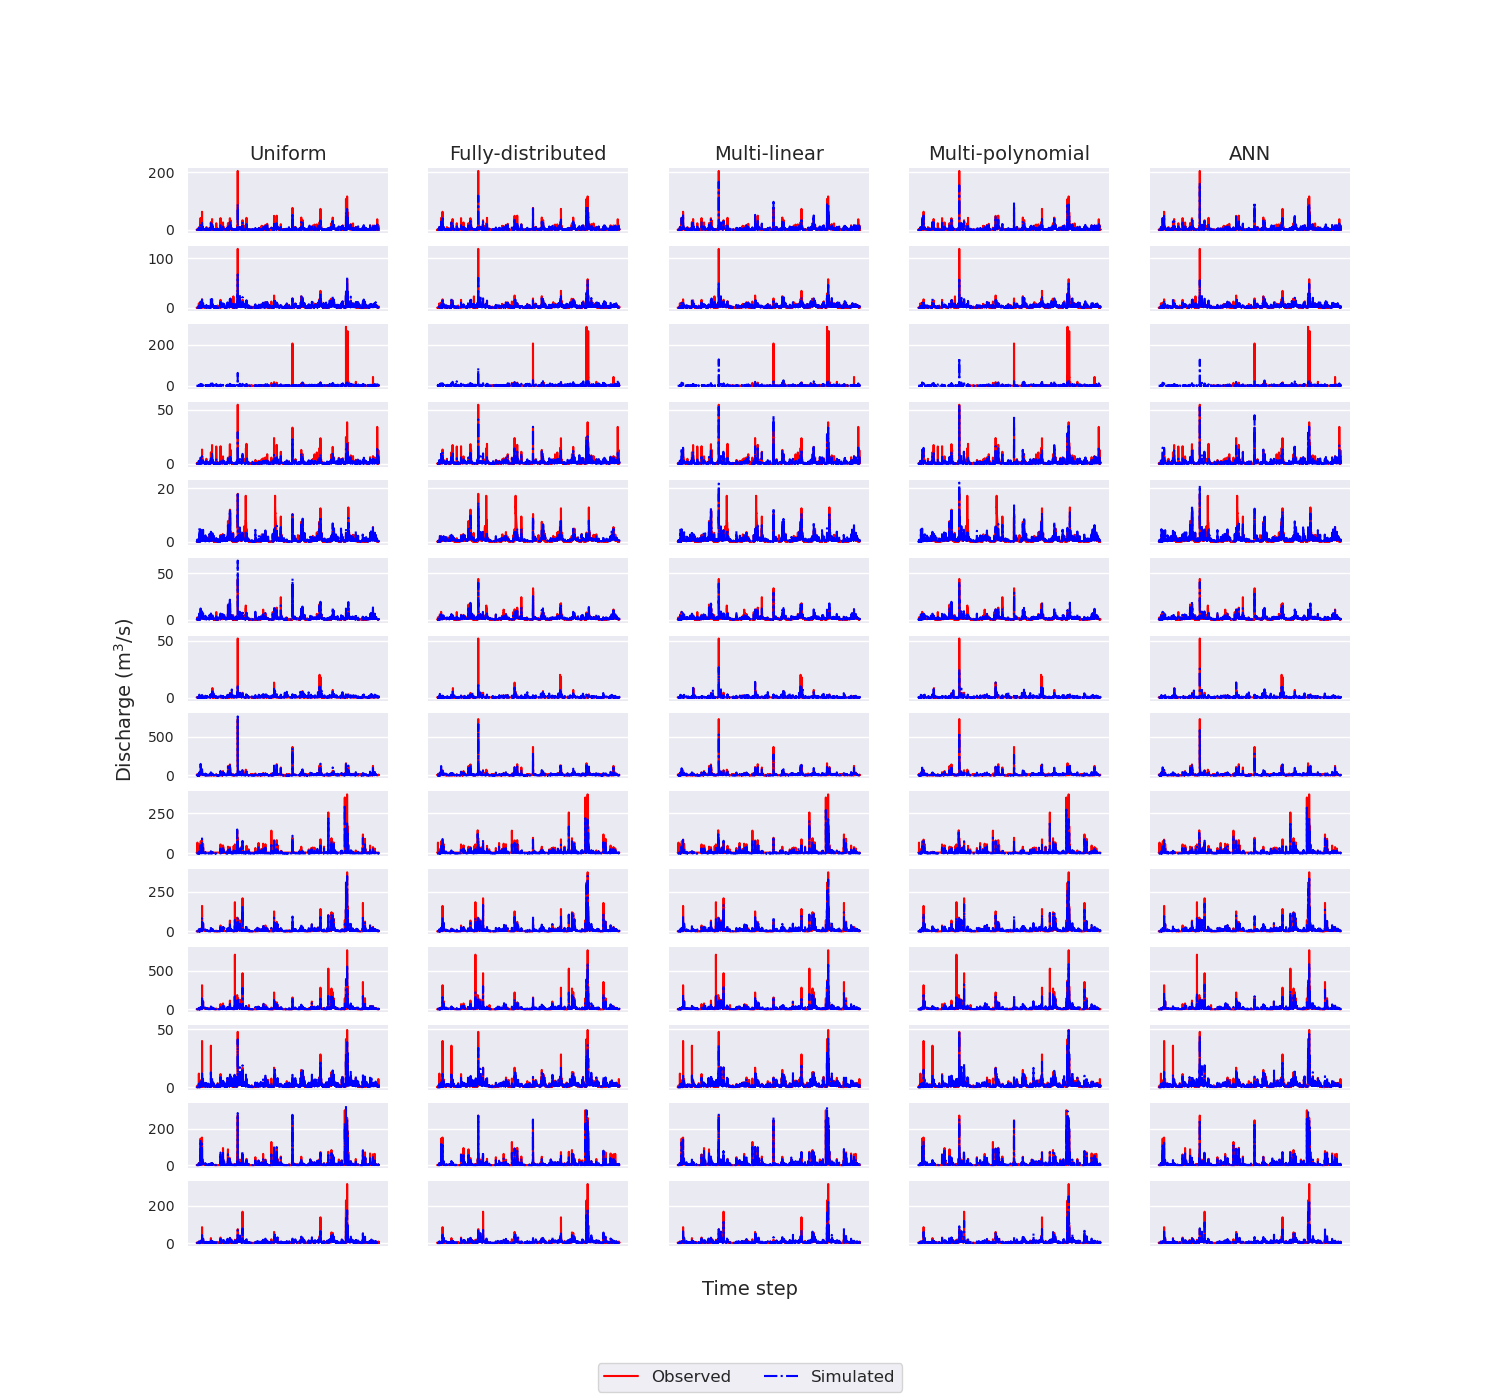
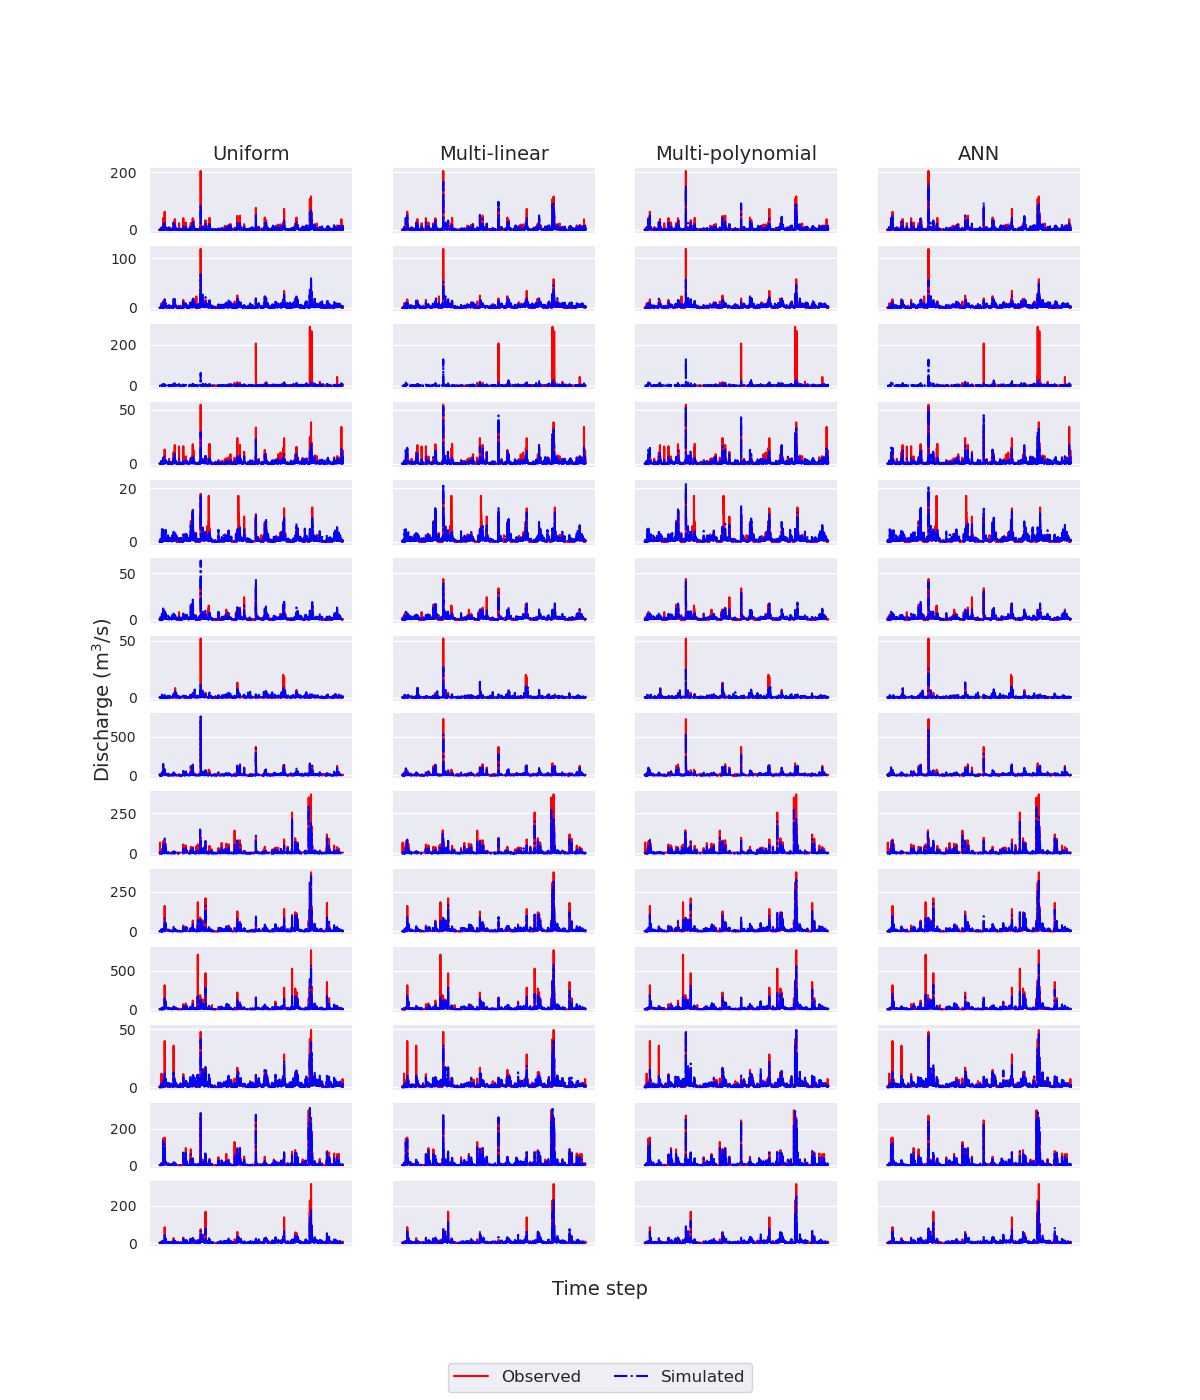
ENC: add signatures analysis using histogram

diff --git a/run_result-analysis.py b/run_result-analysis.py
@@ -7,6 +7,7 @@ import numpy as np
 import pandas as pd
 import h5py
 from sklearn.linear_model import LinearRegression
+from scipy.stats import gaussian_kde
 
 import matplotlib.pyplot as plt
 
@@ -66,14 +67,12 @@ def initialize_args():  # do not set new attr or modify any attr of args outside
 
     args.methods = [
         "Uniform",
-        "Fully-distributed",
         "Multi-linear",
         "Multi-polynomial",
         "ANN",
     ]
     args.filename_method = [
         "uniform",
-        "distributed",
         "hyper-linear",
         "hyper-polynomial",
         "ann",
@@ -84,7 +83,7 @@ def initialize_args():  # do not set new attr or modify any attr of args outside
         for method in tqdm(args.filename_method, desc="</> Reading models ddt...")
     ]
 
-    args.cost = {"nse": nse, "kge": kge}
+    args.cost = {"NSE": nse, "KGE": kge}
 
     return args
 
@@ -94,7 +93,7 @@ def initialize_args():  # do not set new attr or modify any attr of args outside
 ##############################
 
 
-def compare_cost(args, fobj="nse", figname="compare_cost", figsize=(15, 8)):
+def compare_cost(args, fobj="NSE", figname="compare_cost", figsize=(15, 9)):
     print("</> Plotting boxplots...")
 
     cost = []
@@ -112,7 +111,7 @@ def compare_cost(args, fobj="nse", figname="compare_cost", figsize=(15, 8)):
                 cal_val.append("Cal")
 
             elif code in args.val_code:
-                cal_val.append("Val")
+                cal_val.append("Spatio Val")
 
             else:
                 continue
@@ -124,7 +123,7 @@ def compare_cost(args, fobj="nse", figname="compare_cost", figsize=(15, 8)):
             code_catch.append(code)
 
     df = pd.DataFrame(
-        {"code": code_catch, "cal_val": cal_val, "Mapping": metd, "NSE": cost}
+        {"code": code_catch, "cal_val": cal_val, "Mapping": metd, fobj: cost}
     )
 
     # Create the plot
@@ -134,17 +133,17 @@ def compare_cost(args, fobj="nse", figname="compare_cost", figsize=(15, 8)):
     sns.boxplot(
         data=df,
         x="cal_val",
-        y="NSE",
+        y=fobj,
         hue="Mapping",
         width=0.5,
         palette="deep",
         showfliers=True,
         ax=axes[0],
-        order=["Cal", "Val"],
+        order=["Cal", "Spatio Val"],
     )
 
     # Set title and axis labels
-    axes[0].set(title=None, xlabel=None, ylabel="NSE")
+    axes[0].set(title=None, xlabel=None, ylabel=fobj)
 
     # Set y-axis limits
     axes[0].set_ylim([-0.25, 1])
@@ -152,13 +151,11 @@ def compare_cost(args, fobj="nse", figname="compare_cost", figsize=(15, 8)):
     handles, labels = axes[0].get_legend_handles_labels()  # get labels then remove
     axes[0].legend([], [], frameon=False)
 
-    # NSE by catchment
     colors = [
         "#4c72b0",
         "#dd8452",
         "#55a868",
         "#c44e52",
-        "#8172b3",
     ]  # corresponding colors for palette='deep
 
     cls = dict(zip(args.methods, colors))
@@ -175,14 +172,14 @@ def compare_cost(args, fobj="nse", figname="compare_cost", figsize=(15, 8)):
             )
 
     for i, catch in enumerate(code_catch):  # to separate cal and val code
-        if cal_val[i] == "Val":
+        if cal_val[i] == "Spatio Val":
             axes[1].scatter(
                 catch,
                 cost[i],
                 color=cls[metd[i]],
                 marker="^",
                 s=100,
-                label="Val" if i == 0 else None,
+                label="Spatio Val" if i == 0 else None,
             )
 
     legend_elements = [
@@ -197,13 +194,12 @@ def compare_cost(args, fobj="nse", figname="compare_cost", figsize=(15, 8)):
             markeredgewidth=1,
             markersize=8,
         )
-        for m, l in zip(["s", "^"], ["Cal", "Val"])
+        for m, l in zip(["s", "^"], ["Cal", "Spatio Val"])
     ]
     axes[1].legend(handles=legend_elements, loc="lower left", ncols=2, fontsize=14)
 
-    axes[1].set_xlabel("Catchment", fontsize=13)
-
-    axes[1].set_xticklabels([])
+    axes[1].xaxis.set_major_locator(plt.FixedLocator(axes[1].get_xticks()))
+    axes[1].set_xticklabels(axes[1].get_xticklabels(), rotation=75, fontsize=10)
 
     axes[1].set_ylim(axes[0].get_ylim())
 
@@ -211,7 +207,7 @@ def compare_cost(args, fobj="nse", figname="compare_cost", figsize=(15, 8)):
         handles,
         labels,
         title=None,
-        loc="lower center",
+        loc="upper center",
         ncol=len(args.methods),
         fontsize=14,
     )
@@ -314,7 +310,7 @@ def param_map(
     for j, par in enumerate(params):
         axes[0, j].set_title(params[j])
 
-        for i, mod in enumerate(args.models_ddt[2:]):
+        for i, mod in enumerate(args.models_ddt[1:]):
             axes[i, j].yaxis.grid(False)
             axes[i, j].xaxis.grid(False)
 
@@ -331,7 +327,7 @@ def param_map(
             )
 
             if j == 0:
-                axes[i, j].set_ylabel(args.methods[i + 2], labelpad=10)
+                axes[i, j].set_ylabel(args.methods[i + 1], labelpad=10)
 
         divider = make_axes_locatable(axes[-1, j])
         cax = divider.new_vertical(size="5%", pad=0.2, pack_start=True)
@@ -352,9 +348,8 @@ def cost_descent(args, niter=250, figsize=(12, 6), figname="cost_descent"):
         "#dd8452",
         "#55a868",
         "#c44e52",
-        "#8172b3",
     ]  # corresponding colors for palette='deep'
-    linestyles = ["--", ":", "-.", "-"]
+    linestyles = ["-", ":", "-."]
     line_kwargs = {"linewidth": 2}
 
     fig, ax = plt.subplots(figsize=figsize)
@@ -471,7 +466,7 @@ def linear_cov(
 
     fig, axes = plt.subplots(nrows=3, ncols=1, figsize=figsize, constrained_layout=True)
 
-    for k, mod in enumerate(args.models_ddt[2:]):
+    for k, mod in enumerate(args.models_ddt[1:]):
         cov_mat = np.zeros((len(params), len(desc)))
 
         for j, dei in enumerate(descriptor.values()):
@@ -524,7 +519,7 @@ def linear_cov(
             labelrotation=0,
         )
 
-        axes[k].set_ylabel(args.methods[k + 2], fontsize=13, labelpad=10)
+        axes[k].set_ylabel(args.methods[k + 1], fontsize=13, labelpad=10)
 
     plt.savefig(os.path.join(args.output, figname + ".png"))
 
@@ -633,6 +628,95 @@ def signatures_val(
     plt.savefig(os.path.join(args.output, figname + ".png"))
 
 
+def compare_signature_hist(
+    args,
+    sign=["Ebf", "Eff", "Erc", "Epf"],
+    start_time="2016-08-01 00:00",
+    end_time="2018-08-01 00:00",
+    figname="compare_signature_hist",
+    figsize=(15, 8),
+):
+    print("</> Plotting histograms...")
+
+    colors = [
+        "#4c72b0",
+        "#dd8452",
+        "#55a868",
+        "#c44e52",
+    ]  # corresponding colors for palette='deep
+
+    # load model to validate
+    model = smash.Model(
+        *load_data(
+            os.path.join(args.data, "info_bv.csv"),
+            start_time=start_time,
+            end_time=end_time,
+            desc_dir="...",
+        )
+    )
+
+    params = model.get_bound_constraints(states=False)["names"]
+
+    df_sign = pd.DataFrame(columns=["code", "mapping"] + sign)
+
+    for model_ddt, method in zip(args.models_ddt, args.methods):
+        for par in params:
+            setattr(model.parameters, par, model_ddt[par])
+
+        model.run(inplace=True)
+
+        res_sign = model.signatures(sign=sign, event_seg=dict(peak_quant=0.995))
+
+        arr_obs = res_sign.event["obs"][sign].to_numpy()
+        arr_sim = res_sign.event["sim"][sign].to_numpy()
+
+        re = np.abs(arr_sim / arr_obs - 1)
+
+        df = pd.DataFrame(data=re, columns=sign)
+
+        df.insert(loc=0, column="code", value=res_sign.event["obs"]["code"].to_list())
+        df.insert(loc=1, column="mapping", value=method)
+
+        df_sign = pd.concat([df_sign, df], ignore_index=True)
+
+    df_sign = df_sign[df_sign["code"].isin(args.cal_code)]
+
+    # Create the plot
+    fig, axes = plt.subplots(nrows=len(args.methods), ncols=len(sign), figsize=figsize)
+
+    for i in range(axes.shape[0]):
+        for j in range(axes.shape[1]):
+            x = df_sign[df_sign.mapping == args.methods[i]][sign[j]]
+            x = x[np.isfinite(x)]
+
+            axes[i, j].hist(x, bins=30, color=colors[i], range=[0, 2], density=True)
+
+            density = gaussian_kde(x)
+            x_vals = np.linspace(x.min(), x.max(), 100)
+            axes[i, j].plot(x_vals, density(x_vals), "black", linewidth=0.8)
+
+            axes[i, j].set_xlim([0, 1.2])
+            axes[i, j].set_xticks([0, 0.2, 0.4, 0.6, 0.8, 1, 1.2])
+            axes[i, j].set_ylim([0, 4.5])
+            axes[i, j].set_yticklabels([])
+            axes[i, j].set_title(
+                f"mean={round(np.mean(x), 2)}, med={round(np.median(x), 2)}, std={round(np.std(x), 2)}",
+                fontsize=10,
+            )
+
+            if i < axes.shape[0] - 1:
+                axes[i, j].set_xticklabels([])
+
+            else:
+                axes[i, j].tick_params(axis="x", labelsize=10)
+                axes[i, j].set_xlabel(sign[j], fontsize=13)
+
+            if j == 0:
+                axes[i, j].set_ylabel(args.methods[i], fontsize=12)
+
+    plt.savefig(os.path.join(args.output, figname + ".png"))
+
+
 ##########
 ## MAIN ##
 ##########
@@ -649,6 +733,8 @@ if __name__ == "__main__":
     hydrograph(args, "val", "hydrograph_val")
 
     compare_cost(args)
+
+    compare_signature_hist(args)
 
     param_map(args)
 

diff --git a/README.md b/README.md
@@ -43,13 +43,7 @@ You should see a progress message like this:
 smash version: 0.3.0
 ===================================
 </> Reading models ddt...: 100%|██████████████████████████████████████████████████████████████████████████████████████| 5/5 [00:01<00:00,  4.65it/s]
-</> Plotting hydrograph (cal)...
-</> Plotting hydrograph (val)...
-</> Plotting boxplots...
-</> Plotting parameters map...
-</> Plotting descriptors map...
-</> Plotting linear covariance matrix...
-</> Plotting relative error of signatures...
+...
 ```
 
 > **_Note:_**  Please ensure that the correct paths and file names are used in the scripts and the commands above.
